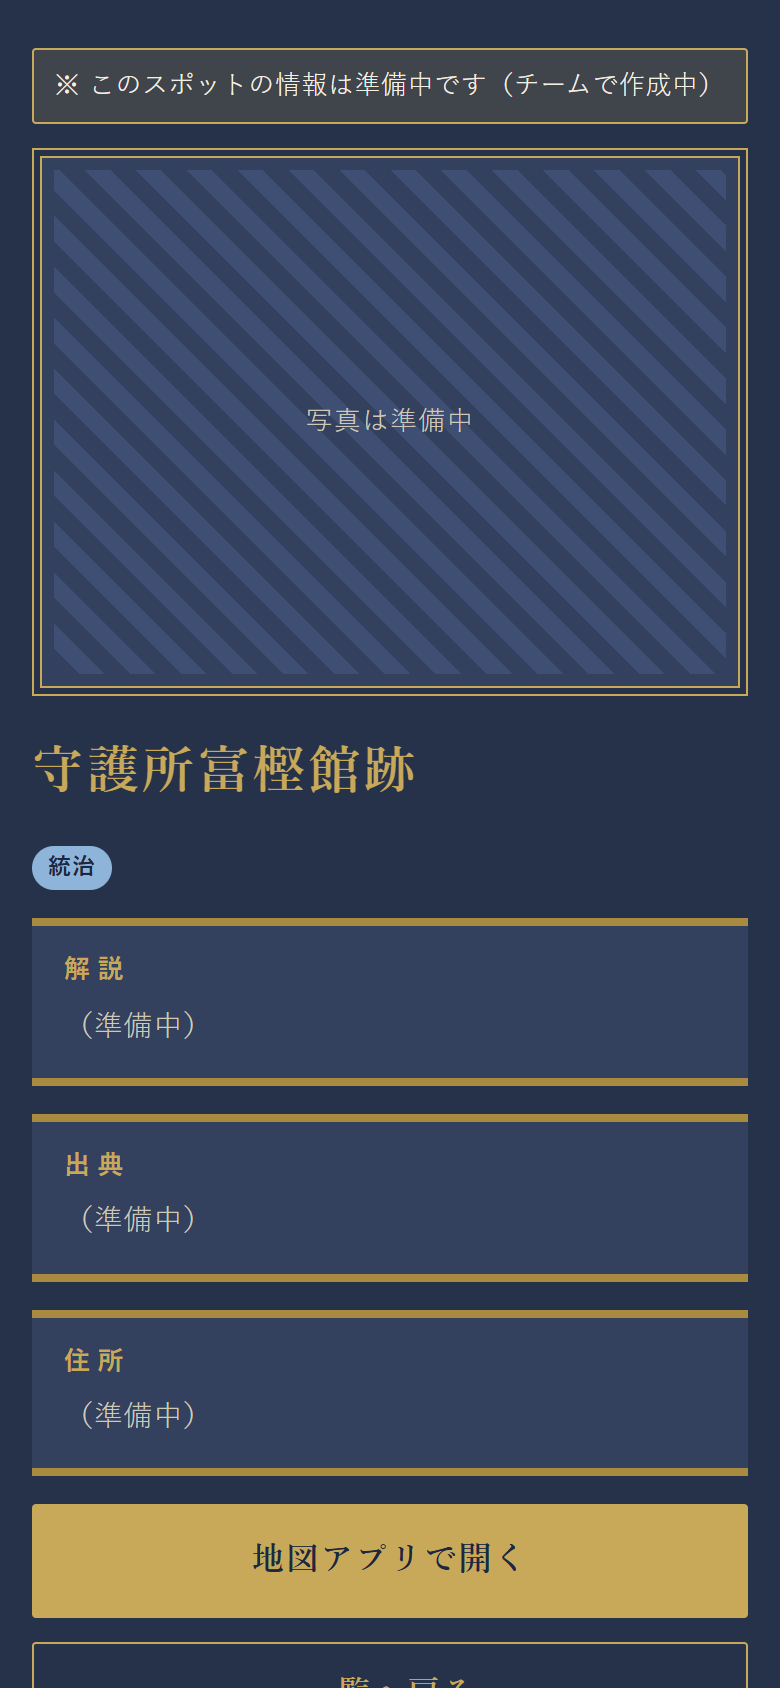
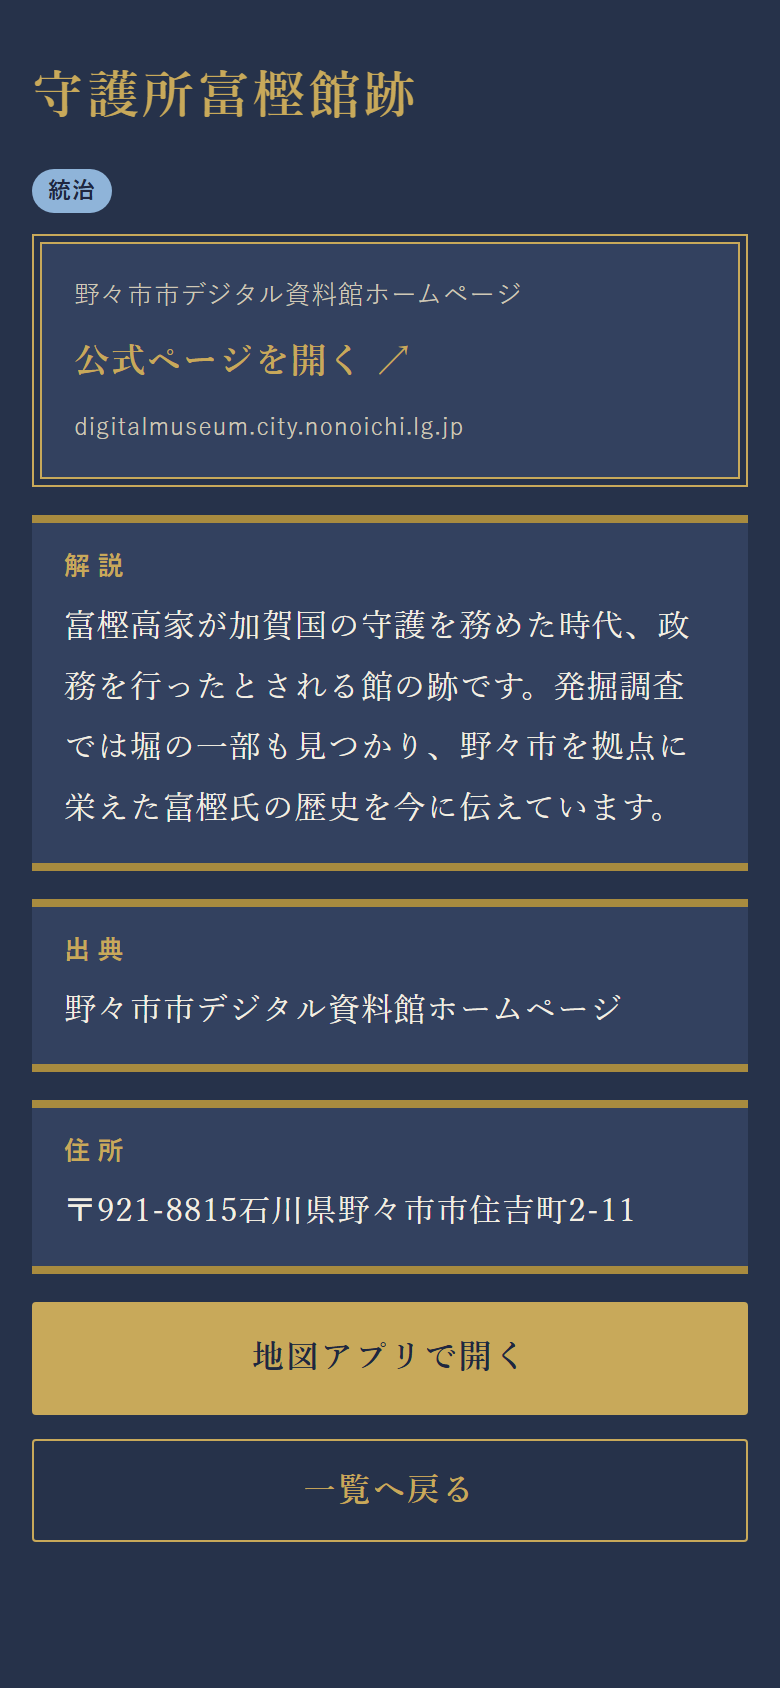
写真をやめて、スポット詳細に公式ページへのリンクを表示
写真の使用が禁止されたため、スポットの写真をアプリから外し、
代わりに公式ページなどへのリンクを、スポット名のすぐ下の額縁に表示する。

- spot-detail.js：写真の額縁をやめ、サイト名・リンク・ドメインを出す額縁にした。URLが空なら「公式ページは準備中」
- spots.js：写真の先読み処理を削除
- style.css：.photo-empty を、リンクの額縁の見た目に置き換え
- spots.json：photo 欄を削除。images/ の写真10枚とフォルダを削除
- data/README.md：photo の説明を消し、URL 欄の書き方を追加
- README.md・PR テンプレート：写真についての記述を更新。S5 の画面の写真を撮り直し

Changed region(s): [[0.0308, 0.0308, 0.9846, 1.0], [0.1538, 0.1848, 0.1846, 0.2156]]

diff --git a/js/screens/spot-detail.js b/js/screens/spot-detail.js
@@ -2,8 +2,8 @@
   spot-detail.js : S5 スポット詳細
 
   表示するもの
-    - 写真（「額縁」の中に表示。写真がまだ無いときは「写真は準備中」の枠）
     - スポット名、タイプの印
+    - 公式ページへのリンク（「額縁」の形で表示。URLがまだ無いときは「公式ページは準備中」）
     - 解説・出典・住所（「巻物」の形で表示。空欄のときは「準備中」）
     - 「地図アプリで開く」ボタン（Googleマップへのリンク）
     - 「一覧へ戻る」ボタン
@@ -11,8 +11,8 @@
   params.id   : 表示するスポットのID（例："spot-01"。data/spots.json の id）
   params.type : 診断結果のタイプ名（一覧に戻るときに、おすすめ順を保つために使う）
 
-  写真は images/ フォルダに、自分たちで撮影したものを入れる（AIで作った画像は使わない）。
-  data/spots.json の photo に、ファイル名（例："spot-01.jpg"）を書く。
+  写真は使わない（使うことが禁止されたため）。代わりに、スポットの公式ページなどへのリンクを出す。
+  data/spots.json の URL に、ページのアドレス（例："https://www.city.nonoichi.lg.jp/..."）を書く。
 */
 
 // 地図アプリ（Googleマップ）のURLを作る
@@ -25,24 +25,27 @@ function makeMapUrl(spot) {
   return base + encodeURIComponent(place);
 }
 
-// 写真の額縁を作る（写真が無い・読み込めないときは「準備中」の枠）
-function makePhotoFrame(spot) {
-  const frame = el("div", null, "frame");
-  const empty = el("div", "写真は準備中", "photo-empty");
-
-  if (spot.photo) {
-    const img = document.createElement("img");
-    img.src = "images/" + spot.photo;
-    img.alt = spot.name + "の写真";
-    // ファイルが見つからないときは、準備中の枠に差し替える
-    img.addEventListener("error", function () {
-      frame.replaceChild(empty, img);
-    });
-    frame.appendChild(img);
-  } else {
-    frame.appendChild(empty);
+// 公式ページへのリンクを、額縁の形で作る（URLが無いときは「準備中」の枠）
+//   サイト名（出典）と、飛び先のドメインも出して、どこへ移動するかわかるようにする
+function makeLinkFrame(spot) {
+  if (!spot.URL) {
+    return el("div", "公式ページは準備中", "frame link-empty");
   }
-  return frame;
+
+  const link = el("a", null, "frame link-frame");
+  link.href = spot.URL;
+  link.target = "_blank";
+  link.rel = "noopener noreferrer";
+
+  if (spot.source) link.appendChild(el("span", spot.source, "link-site"));
+  link.appendChild(el("span", "公式ページを開く ↗", "link-label"));
+  // URLの書き方がおかしくても画面が止まらないように、ドメインが取れたときだけ出す
+  try {
+    link.appendChild(el("span", new URL(spot.URL).hostname, "link-domain"));
+  } catch (e) {
+    // ドメインは出さない
+  }
+  return link;
 }
 
 // 巻物（見出し＋本文）を作る。本文が空なら「準備中」と表示する
@@ -67,8 +70,6 @@ function renderSpotDetail(root, params) {
     root.appendChild(el("div", "※ このスポットの情報は準備中です（チームで作成中）", "draft-banner"));
   }
 
-  root.appendChild(makePhotoFrame(spot));
-
   root.appendChild(el("h1", spot.name));
   const tags = el("div", null, "detail-tags");
   spot.types.forEach(function (t) {
@@ -76,22 +77,10 @@ function renderSpotDetail(root, params) {
   });
   root.appendChild(tags);
 
+  root.appendChild(makeLinkFrame(spot));
+
   root.appendChild(makeScroll("解説", spot.description));
   root.appendChild(makeScroll("出典", spot.source));
-  const urlScroll = el("div", null, "maki");
-  urlScroll.appendChild(el("div", "URL", "maki-title"));
-  
-  if (spot.URL) {
-    const link = el("a", "公式ページを開く", "btn sub");
-    link.href = spot.URL;
-    link.target = "_blank";
-    link.rel = "noopener noreferrer";
-    urlScroll.appendChild(link);
-  } else {
-    urlScroll.appendChild(el("p", "（準備中）", "note"));
-  }
-  root.appendChild(urlScroll);
-  
   root.appendChild(makeScroll("住所", spot.address));
 
   // 地図アプリで開く（新しいタブで開く）

diff --git a/css/style.css b/css/style.css
@@ -311,26 +311,44 @@ p  { margin: 0 0 12px; }
 
 /* ----- S5：額縁と巻物 ----- */
 
-/* 写真の額縁（金茶の二重線） */
+/* 公式ページへのリンクの額縁（金茶の二重線） */
 .frame {
-  padding: 6px;
+  padding: 14px 16px;
   margin: 4px 4px 18px;
   background: var(--card);
   border: 1px solid var(--main);
   box-shadow: 0 0 0 3px var(--bg), 0 0 0 4px var(--main);
 }
-.frame img {
+a.link-frame {
   display: block;
-  width: 100%;
-  aspect-ratio: 4 / 3;
-  object-fit: cover;
+  color: var(--text);
+  text-decoration: none;
 }
-/* 写真がまだ無いときの枠（斜めの縞） */
-.photo-empty {
-  aspect-ratio: 4 / 3;
-  display: flex;
-  align-items: center;
-  justify-content: center;
+a.link-frame:active { background: var(--card-sel); }
+a.link-frame:focus-visible { outline: 3px solid var(--focus); outline-offset: 6px; }
+.link-site {
+  display: block;
+  font-family: var(--font-sans);
+  font-size: 0.8rem;
+  color: var(--muted);
+}
+.link-label {
+  display: block;
+  margin: 4px 0;
+  font-size: 1.1rem;
+  font-weight: bold;
+  color: var(--main);
+}
+.link-domain {
+  display: block;
+  font-family: var(--font-sans);
+  font-size: 0.75rem;
+  color: var(--muted);
+  overflow-wrap: anywhere;
+}
+/* URLがまだ無いときの枠（斜めの縞） */
+.link-empty {
+  text-align: center;
   color: var(--muted);
   font-family: var(--font-sans);
   font-size: 0.85rem;

diff --git a/js/screens/spots.js b/js/screens/spots.js
@@ -10,20 +10,6 @@
 //   戻り値：[{ spot: スポットの情報, recommended: おすすめなら true }, ...]
 //   おすすめは types.json に書かれた順番。残りは spots.json の順番のまま
 
-let spotImagesPreloaded = false;
-
-function preloadSpotImages() {
-  if (spotImagesPreloaded) return;
-  spotImagesPreloaded = true;
-
-  loadedData.spots.forEach(function (spot) {
-    if (!spot.photo) return;
-
-    const image = new Image();
-    image.src = "images/" + spot.photo;
-  });
-}
-
 function calcDistance(from, to) {
   const radLat1 = (from.lat * Math.PI) / 180;
   const radLon1 = (from.lng * Math.PI) / 180;
@@ -195,8 +181,6 @@ function showDistances(list, here, status) {
 }
 
 function renderSpots(root, params) {
-  preloadSpotImages();
-
   const typeName = params.type;
   const hasType = Boolean(loadedData.types[typeName]);
 

diff --git a/.github/pull_request_template.md b/.github/pull_request_template.md
@@ -16,4 +16,4 @@
 - [ ] Live Server で、変えた画面を確認した
 - [ ] スマホの幅でも確認した（ブラウザの開発者ツール `F12` → スマホのアイコン）
 - [ ] 機能・データ・ファイル構成を変えたら、README も直した
-- [ ] 写真や文章に、他人の個人情報や、出典のない史実が入っていない
+- [ ] 文章に、他人の個人情報や、出典のない史実が入っていない
